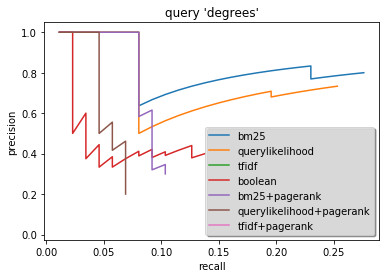
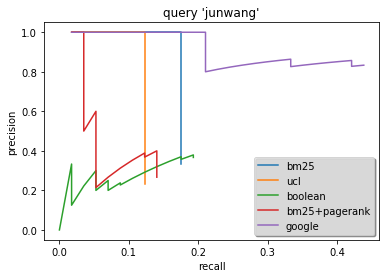
Change formula and add ucl and google

diff --git a/report/report-body.tex b/report/report-body.tex
@@ -248,7 +248,7 @@ However, it does not make sense to pursue 100\% recall by returning all document
 
 The F1 score, on the other hand, is a good single measure for the accuracy of the results of the given search engine. It considers both precision and recall when computing its score. The general formula of the F1 score is shown below:
 
-\[F1=(1+\beta^{2})\cdot \frac{precision\cdot recall}{(\beta^{2}\cdot precision)+recall}\]
+\[F1=\frac{1}{\beta \cdot \frac{1}{precision}+(1-\beta)\cdot \frac{1}{recall}}\]
 
 In our experiment, we set the parameter $\beta$ to the conventional value 0.5, changing the formula to become as follows:
 
@@ -268,12 +268,12 @@ DCG is a further measure of ranking quality. It is used to evaluate the ranking 
     \label{inform}
     \resizebox{\columnwidth}{!}
     {
-      \begin{tabular}{|l|l|l|l|l|l|l|l|}
+      \begin{tabular}{|l|l|l|l|l|l|l|l|l|l|}
       \hline
-                & BM25  & QL & TF-IDF &Boolean& BM25PR &QLPR&TF-IDFPR  \\ \hline
-      Precision & 0.7  & 0.36  & 0.66 & 0.59 &0.52&0.52&0.53 \\ \hline
-      Recall    & 0.52& 0.49   & 0.51 & 0.5 &0.46&0.48&0.45 \\ \hline
-      F1 score  & 0.58 & 0.28   & 0.55  & 0.52&0.47&0.49&0.47\\ \hline
+                & BM25  & QL & TF-IDF &Boolean& BM25PR &QLPR&TF-IDFPR&Google&ucl  \\ \hline
+      Precision & 0.7  & 0.36  & 0.66 & 0.59 &0.52&0.52&0.53&0.83&0.67 \\ \hline
+      Recall    & 0.52& 0.49   & 0.51 & 0.5 &0.46&0.48&0.45&0.72&0.51 \\ \hline
+      F1 score  & 0.68 & 0.42   & 0.55  & 0.52&0.47&0.49&0.47&0.77&0.579\\ \hline
       \end{tabular}
     }
     \end{subtable}%
@@ -284,12 +284,12 @@ DCG is a further measure of ranking quality. It is used to evaluate the ranking 
     \label{nav}
     \resizebox{\columnwidth}{!}
     {
-      \begin{tabular}{|l|l|l|l|l|l|l|l|}
+      \begin{tabular}{|l|l|l|l|l|l|l|l|l|l|}
       \hline
-                & BM25  & QL & TF-IDF &Boolean& BM25PR &QLPR&TF-IDFPR  \\ \hline
-      Precision & 0.67  & 0.64  & 0.6 & 0.48  & 0.53 & 0.47 & 0.64 \\ \hline
-      Recall    & 0.62& 0.57& 0.53& 0.51& 0.5& 0.42& 0.58 \\ \hline
-      F1 score  & 0.49& 0.44& 47& 0.36& 0.31&0.26 & 0.43\\ \hline
+                & BM25  & QL & TF-IDF &Boolean& BM25PR &QLPR&TF-IDFPR &google&ucl \\ \hline
+      Precision & 0.67& 0.64& 0.6 &0.48& 0.53 & 0.47 & 0.64&0.82&0.62 \\ \hline
+      Recall    & 0.62& 0.57& 0.53& 0.51&0.5& 0.42& 0.58 &0.71&0.58\\ \hline
+      F1 score  & 0.64& 0.60& 0.56& 0.49& 0.51&0.44 & 0.6&0.0.76&0.6\\ \hline
       \end{tabular}
     }
     \end{subtable}
@@ -298,11 +298,11 @@ DCG is a further measure of ranking quality. It is used to evaluate the ranking 
     \caption{DCG of models}
     \label{dcg}
     \resizebox{\columnwidth}{!}{
-    \begin{tabular}{|l|l|l|l|l|l|l|l|}
+    \begin{tabular}{|l|l|l|l|l|l|l|l|l|l|}
     \hline
-            & BM25  & QL & TF-IDF & Boolean&BM25PR &QLPR&TF-IDFPR \\ \hline
-    Informational& 8.57&7.6&7.4&3.9&4.9&5.1&5\\ \hline
-    Navigational& 13.4&10.1&7.4&6.9&8.6&7.4&10.9\\ \hline
+            & BM25  & QL & TF-IDF & Boolean&BM25PR &QLPR&TF-IDFPR&google&ucl \\ \hline
+    Informational& 8.57&7.6&7.4&3.9&4.9&5.1&5.3&10.7&9.23\\ \hline
+    Navigational& 13.4&10.1&7.4&6.9&8.6&7.4&10.9&14.27&12.8\\ \hline
     \end{tabular}
     }
     \end{subtable}%
@@ -324,10 +324,12 @@ DCG is a further measure of ranking quality. It is used to evaluate the ranking 
 
 \subsection{Analysis of Results} % (fold)
 \label{sub:analysis_of_results}
-Our precision, recall and F1 score results are shown in table \ref{inform} and \ref{nav}. These scores are averaged by the query types according to the 3 informational and 4 navigational queries described it section \ref{sub:dataset_description}. Algorithms include BM25, Query Likelihood (QL), Boolean, TF-IDF, BM25 with PageRank (BM25PR), TF-IDF with PageRank (TF-IDFPR) and QL with PageRank (QLPR).
+Our precision, recall and F1 score results are shown in table \ref{inform} and \ref{nav}. These scores are averaged by the query types according to the 3 informational and 4 navigational queries described it section \ref{sub:dataset_description}. Algorithms include benchmarks (Google, uclBM25), Query Likelihood (QL), Boolean, TF-IDF, BM25 with PageRank (BM25PR), TF-IDF with PageRank (TF-IDFPR) and QL with PageRank (QLPR).
 
 \subsubsection{Ranking relevance}
-The tables indicates that BM25 has a higher performance on both the informational and navigational queries. The reason of this could be caused by the penalty on the BM25 has on term frequency and document length in order to avoid retrieving non-relevant documents. Surprisingly, algorithms implemented with PageRank actually perform worse than the ones without. A possible reason might be of the origin of our web pages. The CS domain might not have as many pointing pages to hold the theorem that PageRank builds upon, namely that more popular pages has a higher long term visit rate.  More test sets would be necessary in order to determine whether the combination of the use of PageRank is better or worse than the individual model without PageRank.
+Firstly, Google does have a leading performance among all our algorithms and ucl search engine for both navigational and informational queries. BM25 has the second highest performance which mean it beats the UCL search engine. This could because algorithms we used could also retrieve link that can only be found by google or ucl when the user is using a smartphone. For example, the link 'http://www.cs.ucl.ac.uk/mobile/archive/article/media-futures-group-research-wins-best-paper-award/' is relevant to the query 'junwang' and retrieved by our algorithms, but neither of ucl or google search engine got it. Therefore, the dataset would be biased to our models unless data pre-processing is used to separate mobile links from the main datasets. That could be done in any further development.
+
+Among performances of our own algorithms, BM25 has a higher performance on both the informational and navigational queries. The reason of this could be caused by the penalty on the BM25 has on term frequency and document length in order to avoid retrieving non-relevant documents. Surprisingly, algorithms implemented with PageRank actually perform worse than the ones without. A possible reason might be of the origin of our web pages. The CS domain might not have as many pointing pages to hold the theorem that PageRank builds upon, namely that more popular pages has a higher long term visit rate.  More test sets would be necessary in order to determine whether the combination of the use of PageRank is better or worse than the individual model without PageRank.
 
 It is also interesting to observe that the recall values from the navigational queries is generally higher than the ones from the informational queries. This is because the navigational queries naturally restricts the number of relevant documents. For example, a user might expect the Moodle login page with the query 'moodle'. Since there are almost no extra information about this query the relevant documents would be very few. In the case of using a query such as "computer science" the number of relevant documents are expected to be much higher. Therefore, it is easier for the search engine to retrieve more relevant documents for the navigational queries than the informational queries.
 
@@ -336,8 +338,8 @@ It is also interesting to observe that the recall values from the navigational q
     \begin{subfigure}{0.5\textwidth}
         \centering
         \includegraphics[width=\linewidth]{figure5}
-        \caption{Precision/recall plot of query 'degree'}
-        \label{fig:degree}
+        \caption{Precision/recall plot of query 'junwang'}
+        \label{fig:junwang}
         \vskip -6pt
     \end{subfigure}%
     ~ 
@@ -351,7 +353,7 @@ It is also interesting to observe that the recall values from the navigational q
     \caption{Precision/recall curves for two example queries.}
 \end{figure*}
 
-Figure \ref{fig:degree} and \ref{fig:alphago} show the precision and recall plots with the query 'AlphaGo' and 'degree'. It can be seen that every model could retrieve all documents relate to the query 'AlphaGo', while performance of each model varies significantly to the query 'degree' although both queries are informational. The reason of this phenomenon is because the term 'AlphaGo' is still so new and unique that only a handful of pages that are actually using this term. Since the amount of documents in the collection that included the query 'AlphaGo' was only four documents, all of the models could easily retrieve them. In contrast, the term 'degree' is much more general and popular, hence even non-relevant pages might include this term which would make it difficult for models to retrieve its relevant documents.
+Figure \ref{fig:junwang} and \ref{fig:alphago} show the precision and recall plots with the query 'AlphaGo' and 'junwang'. Due to there are too many models, we only plotted some of them with performances of google and ucl. It can be seen that every model could retrieve all documents relate to the query 'AlphaGo', while performance of each model varies significantly to the query 'junwang' although both queries are informational. The reason of this phenomenon is because the term 'AlphaGo' is still so new and unique that only a handful of pages that are actually using this term. Since the amount of documents in the collection that included the query 'AlphaGo' was only four documents, all of the models could easily retrieve them. In contrast, the term 'junwang' is much more general and popular, hence even non-relevant pages might include this term which would make it difficult for models to retrieve its relevant documents.
 
 Table \ref{dcg} shows the DCG of performances of each of the algorithms with different types of queries. BM25 still has significantly better performance than the others, and we could easily interpret that BM25 is the best algorithm among those seven. Again, it can be seen that the DCG of the results from navigational queries is generally higher than informational queries, hence we could interpret this to that the metrics are also depending on the type of the query rather than only the specific ranking algorithm. Beside, BM25 does not perform well for every search term although it has a better overall performance than other models. For example, the term 'bioinformatics' was outperformed by the BMPG model.
 
